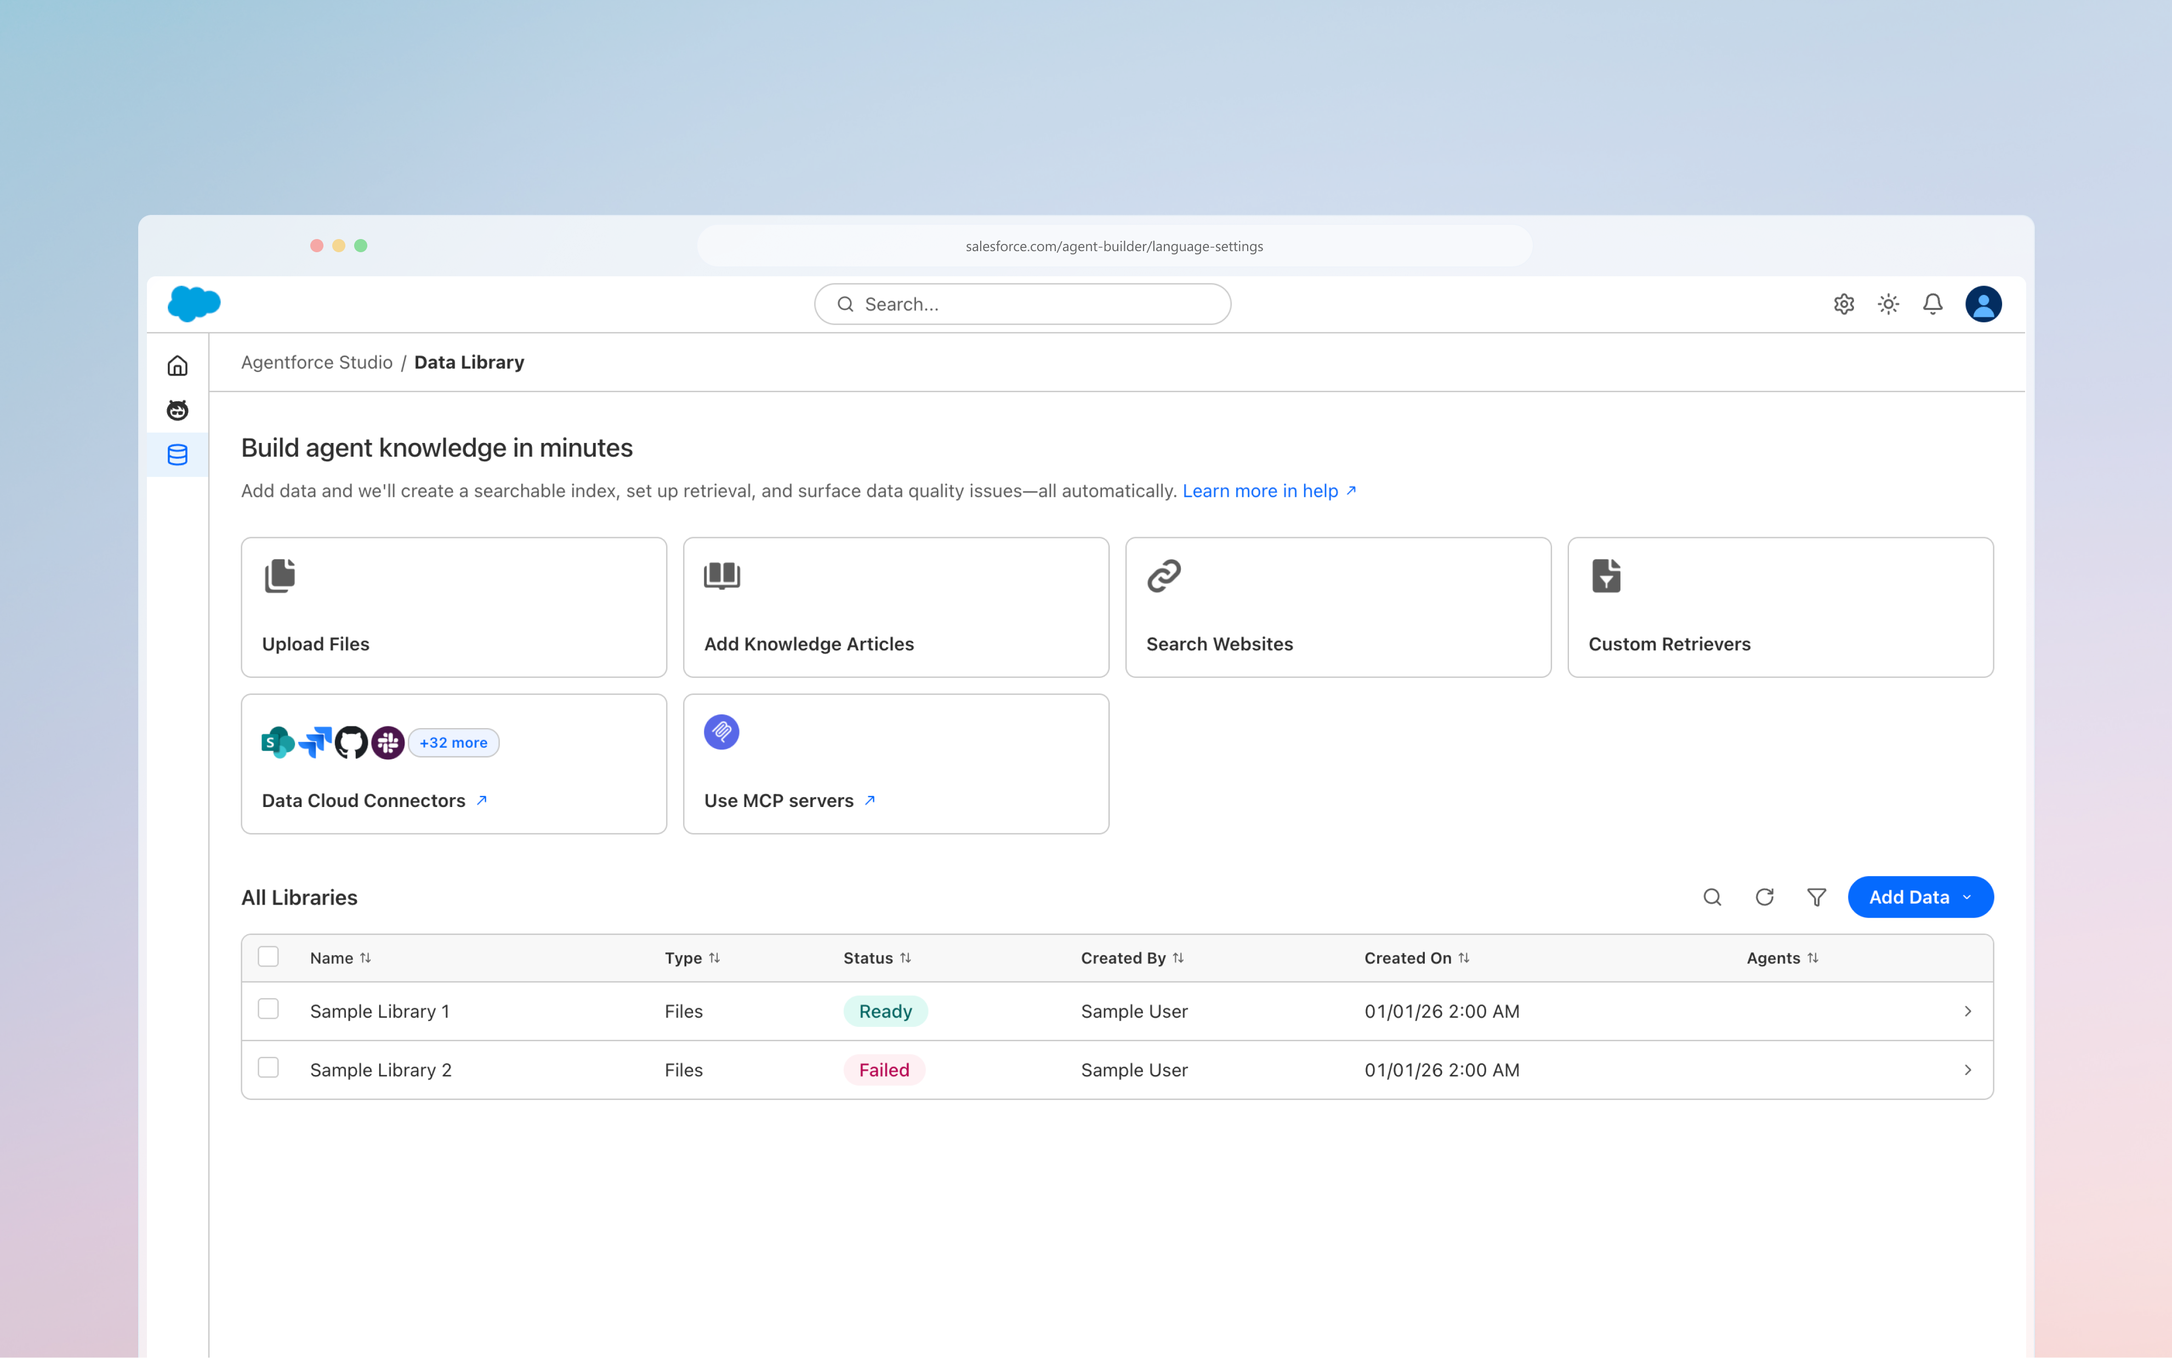
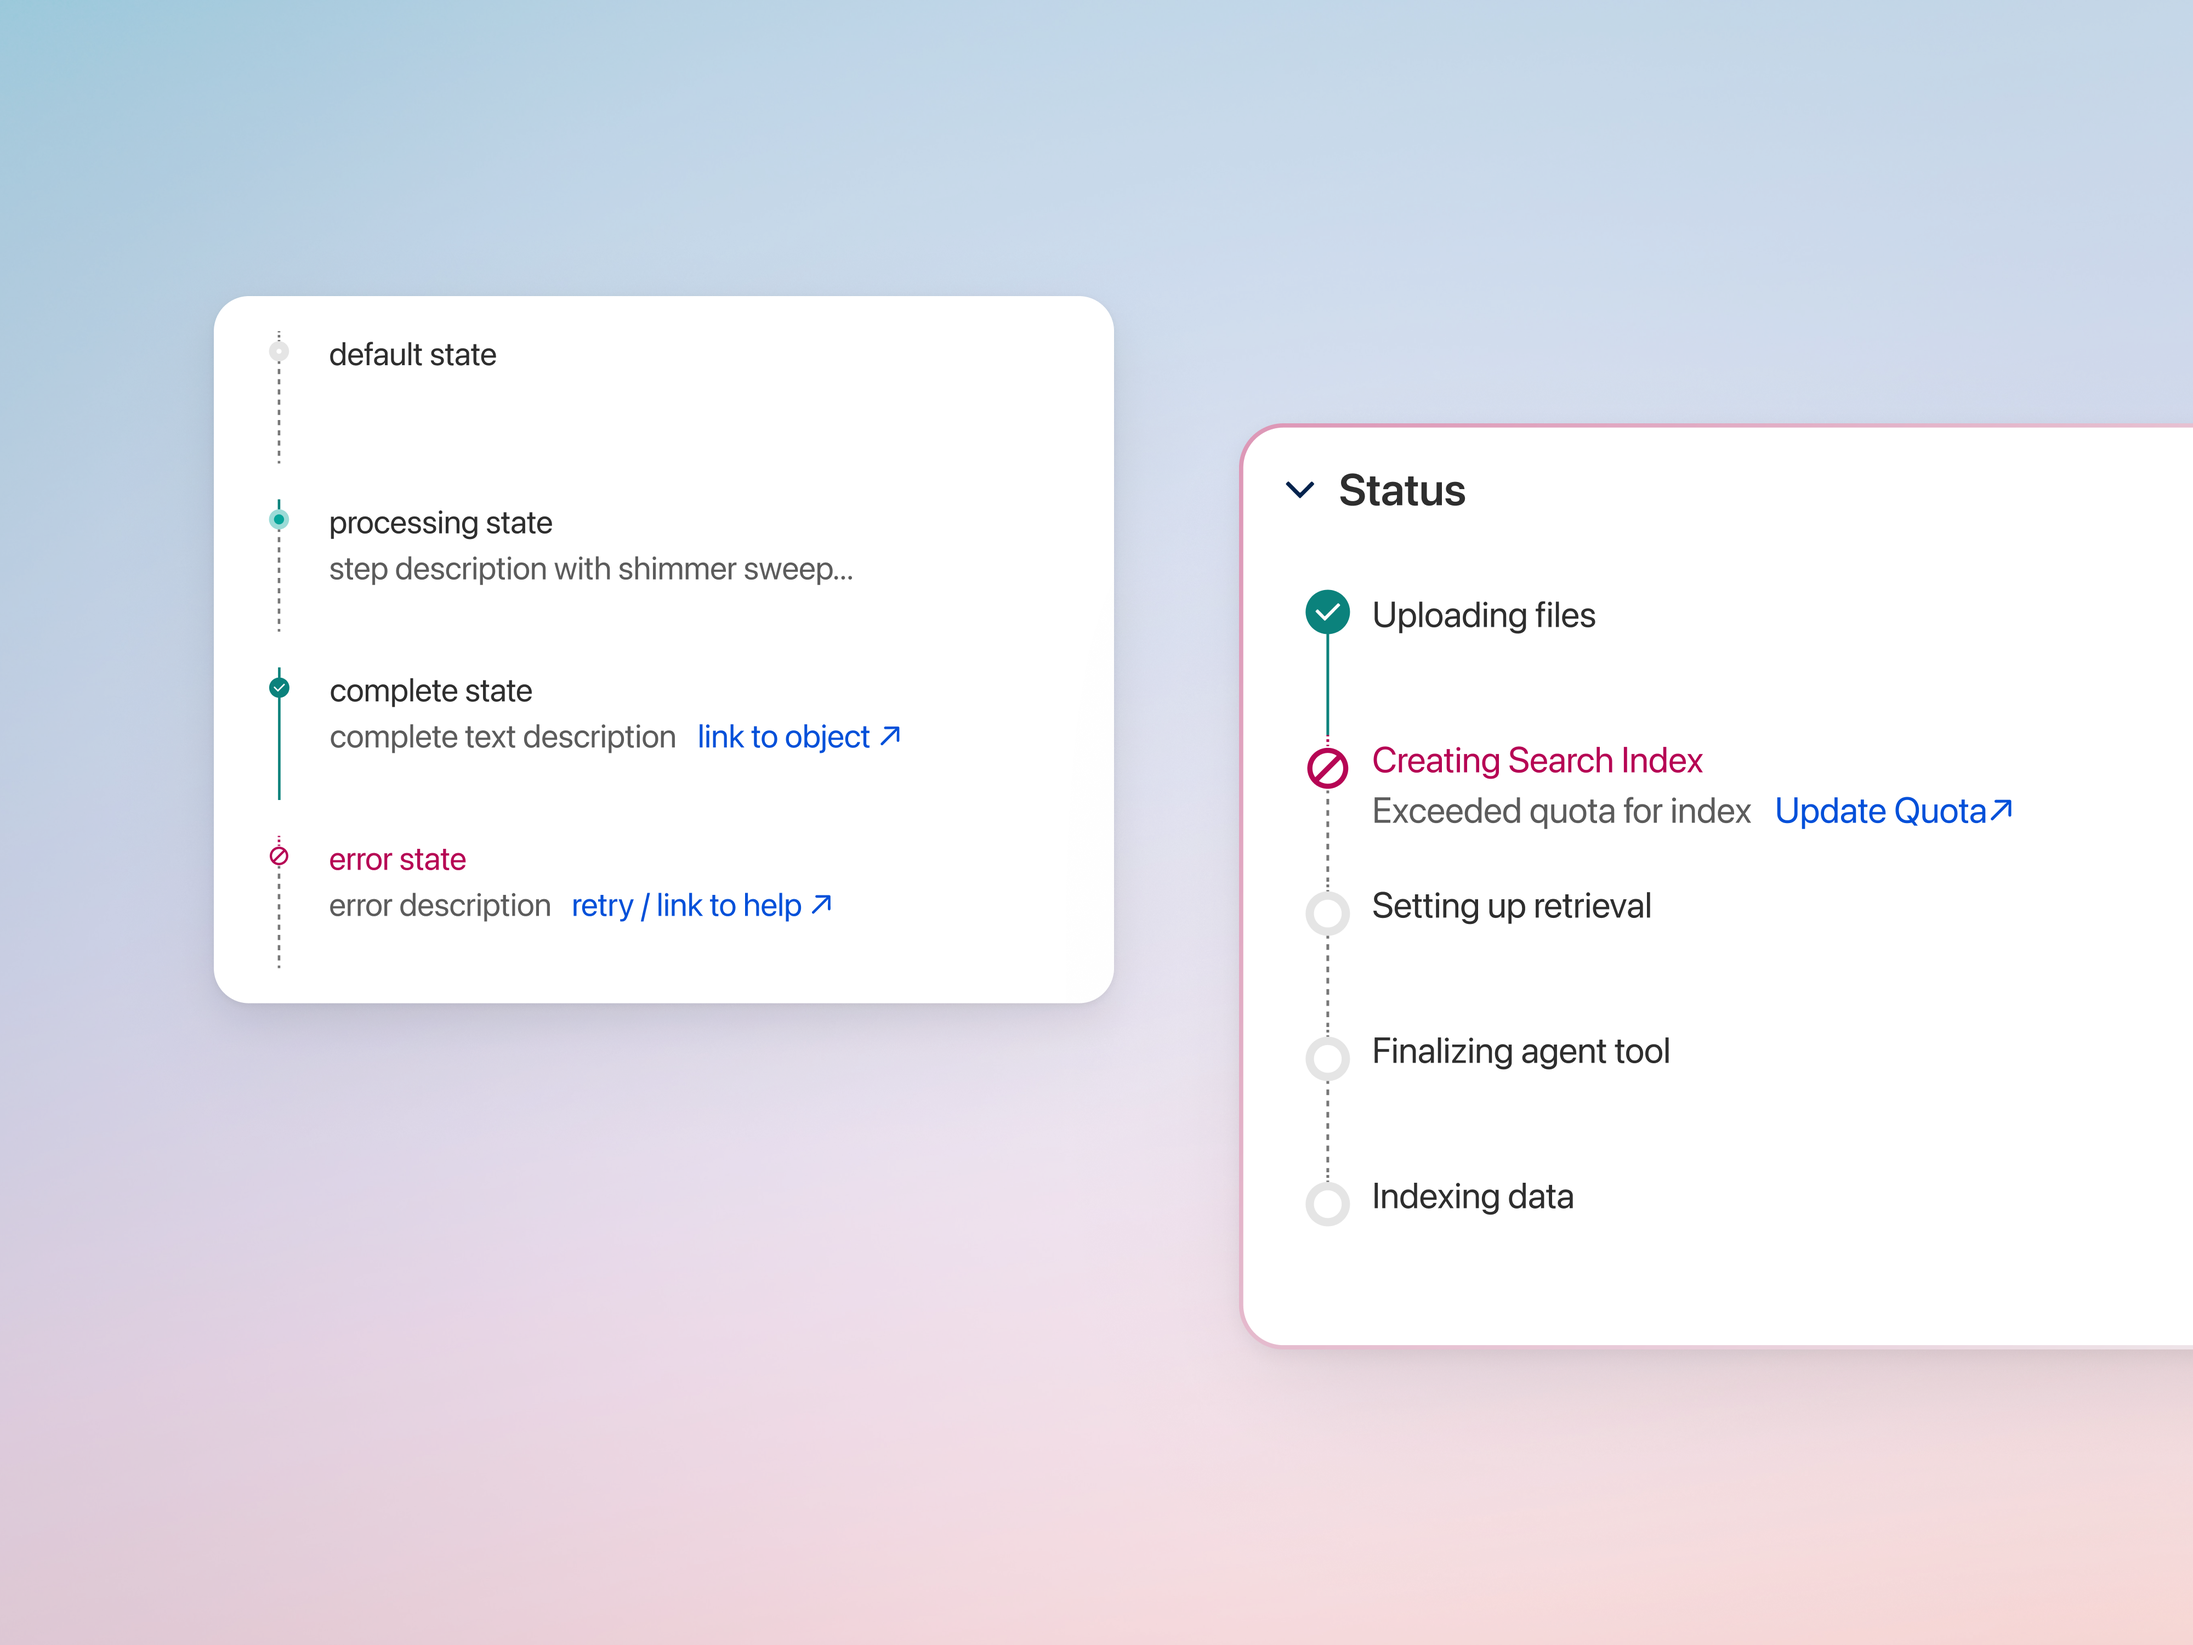
Refine mobile gallery posters

diff --git a/components/home/gallery/GalleryWall.tsx b/components/home/gallery/GalleryWall.tsx
@@ -48,7 +48,7 @@ export function GalleryWall({
   }, [details, selected]);
 
   return (
-    <section className="px-5 tablet:px-10 pt-[160px] pb-32 tablet:pb-40">
+    <section className="px-5 tablet:px-10 pt-24 tablet:pt-[160px] pb-24 tablet:pb-40">
       {/* hero headline */}
       <h1
         className="hero-h1 pb-6 tablet:pb-8 text-center"
@@ -56,7 +56,7 @@ export function GalleryWall({
       >
         Making complex<br />workflows feel simple
       </h1>
-      <h2 className="pb-64 tablet:pb-72 text-center font-normal" style={{ color: "var(--color-muted)" }}>
+      <h2 className="pb-36 tablet:pb-72 text-center font-normal" style={{ color: "var(--color-muted)" }}>
         Building AI products at Salesforce, used by 90% of the Fortune 500.
       </h2>
 
